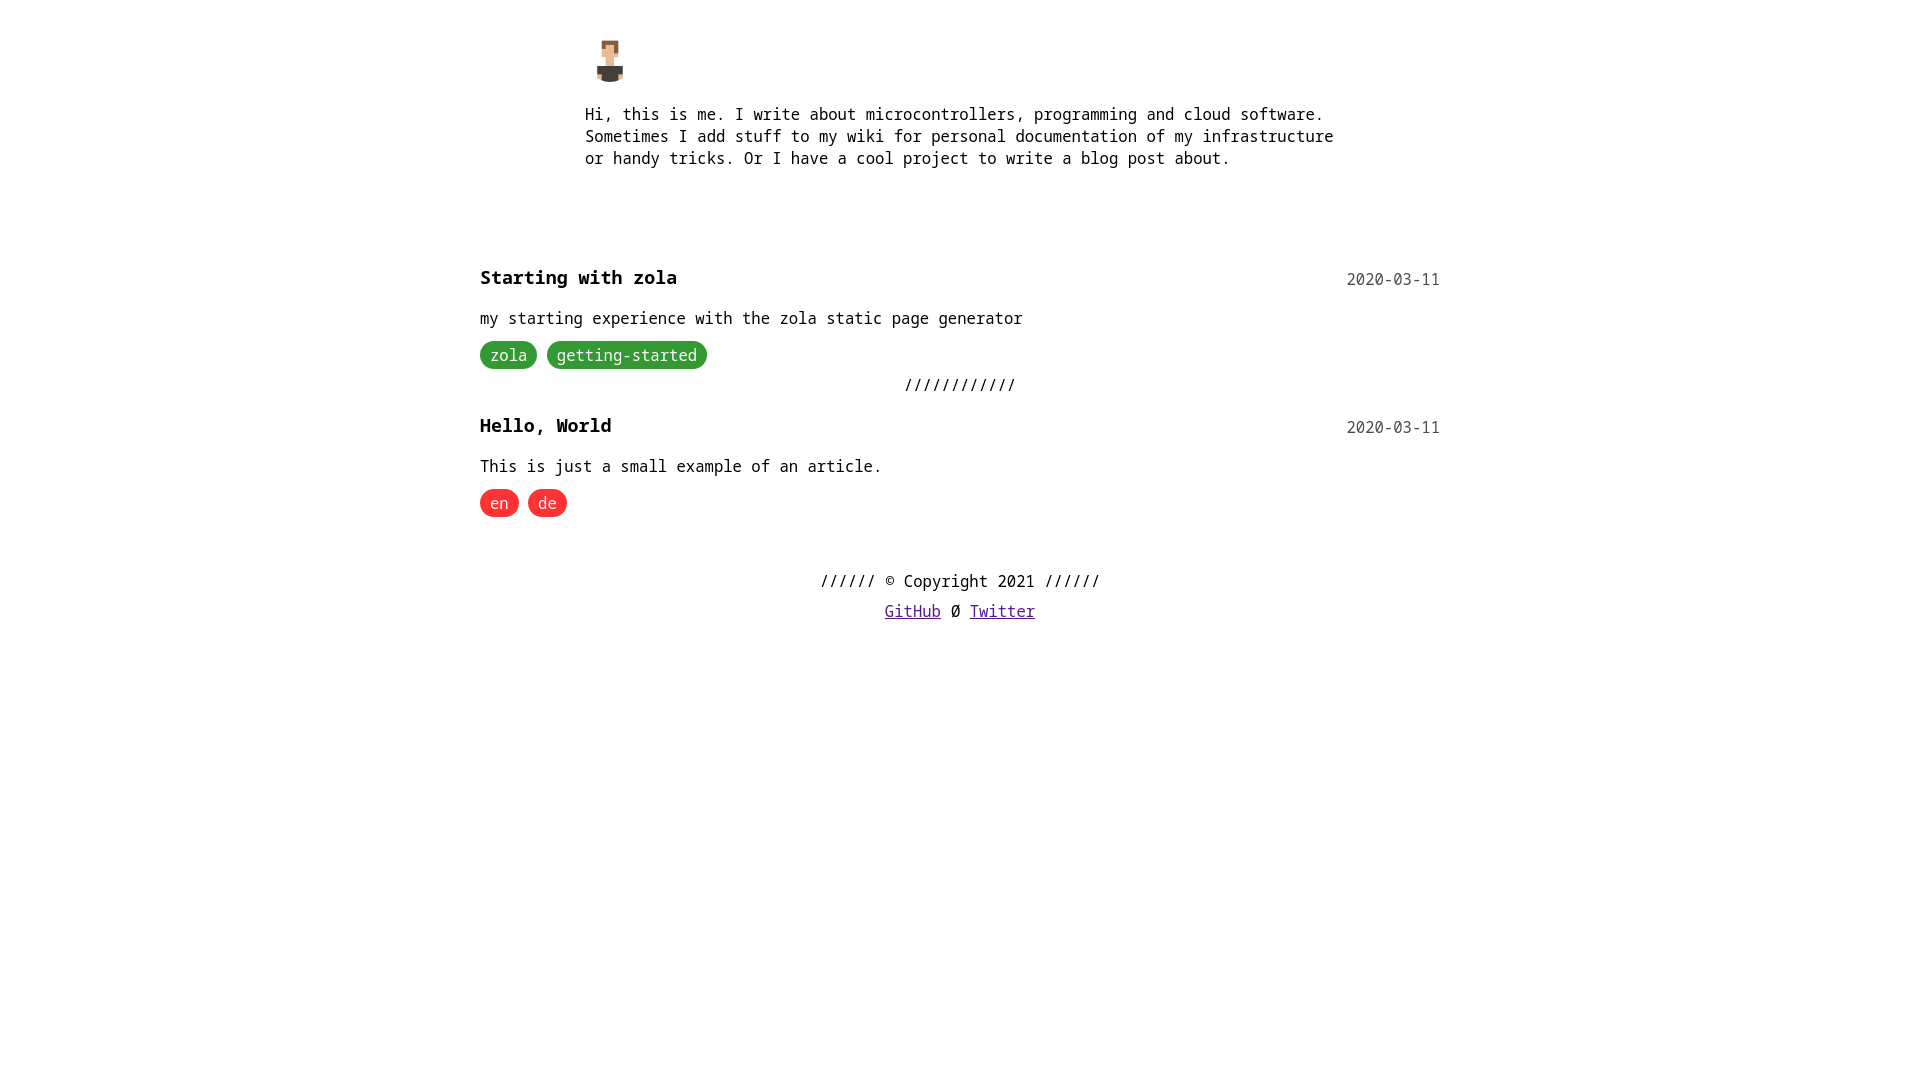
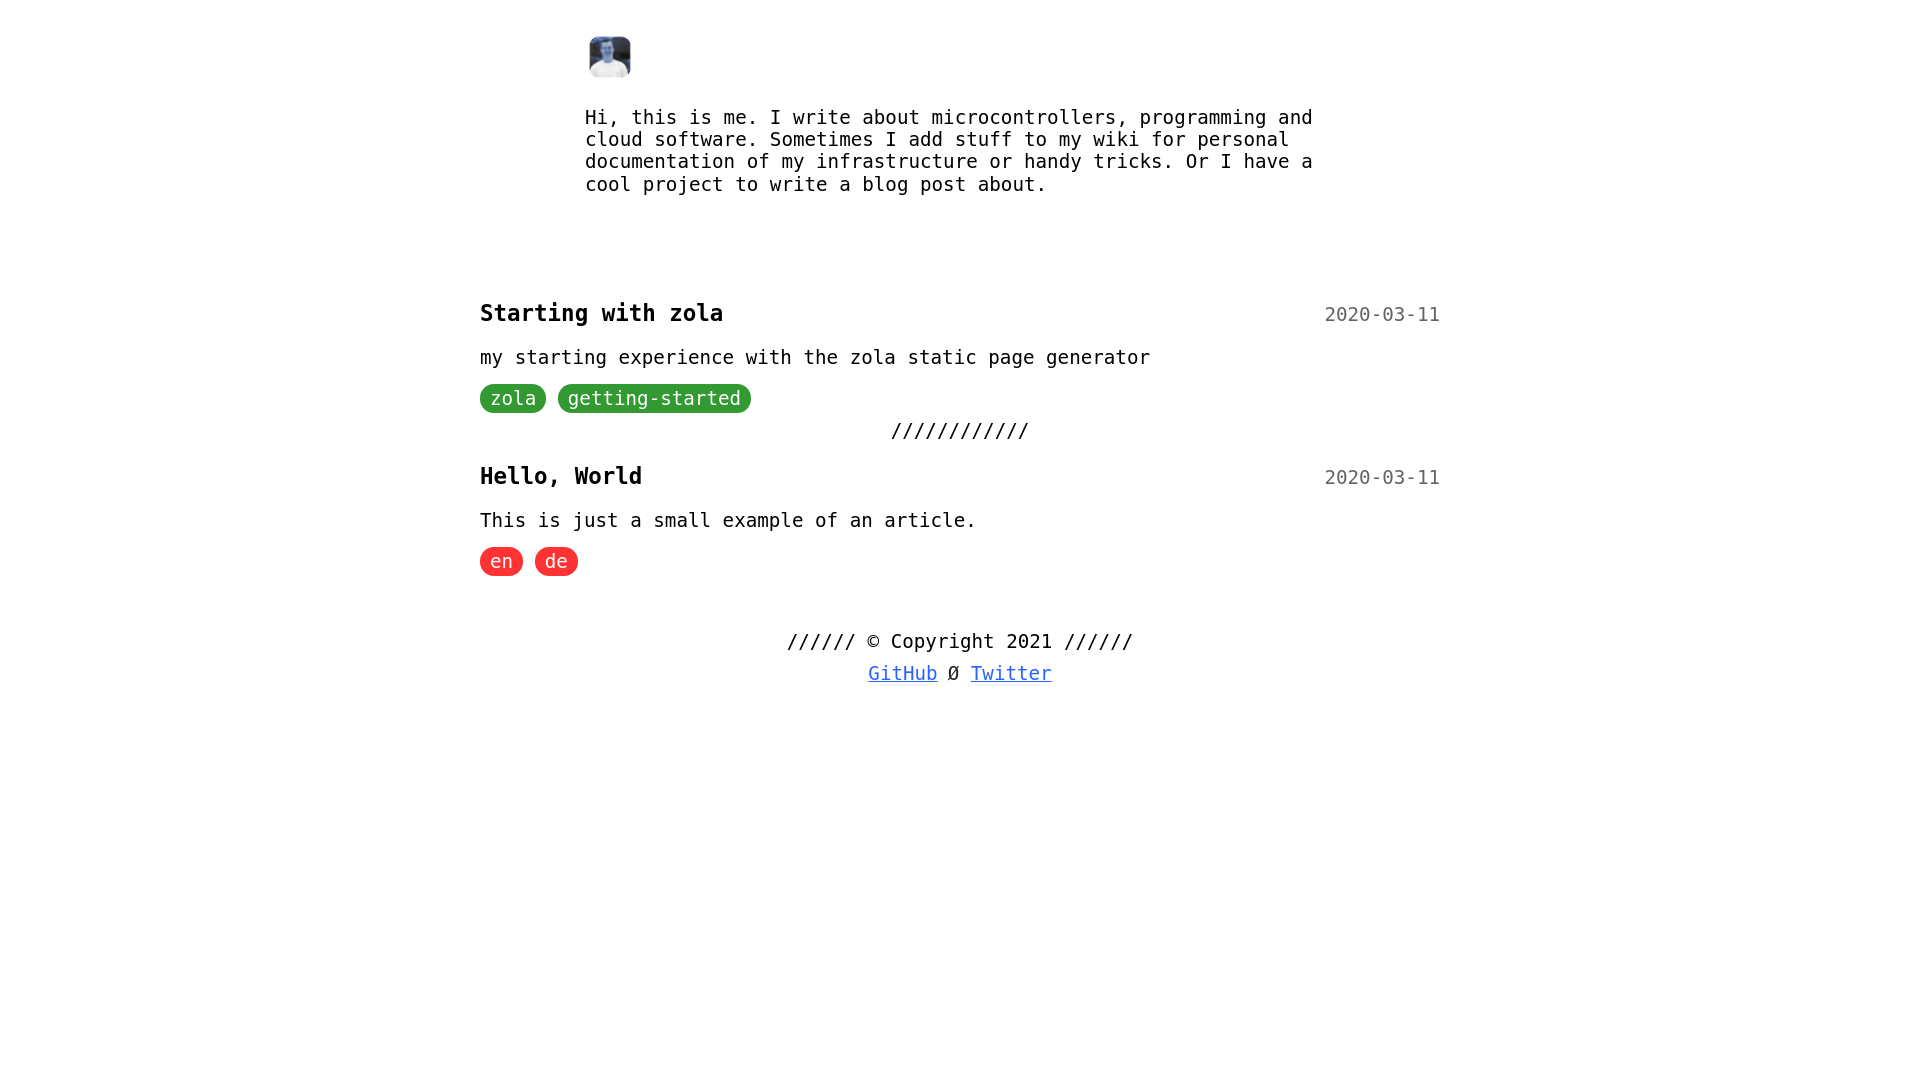
update screenshots + fix time color
~ added new screenshots with updated colors

~ fixed time tag coloring (was invisible in dark mode)

diff --git a/sass/style.scss b/sass/style.scss
@@ -32,6 +32,10 @@ $separator-decoration: "//////";
   pre code {
     background-color: inherit !important;
   }
+
+  time {
+    color: rgba($base-background, 0.7) !important;
+  }
 }
 
 /**
